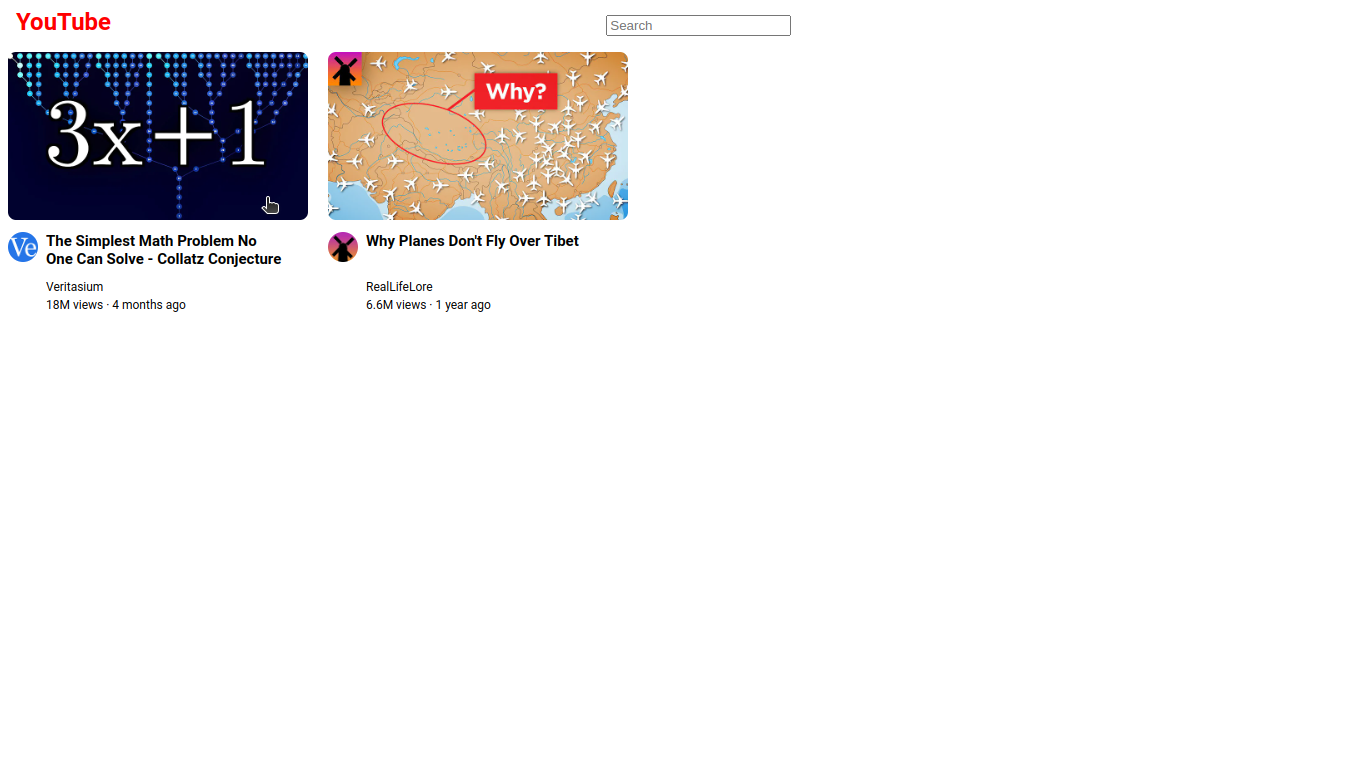
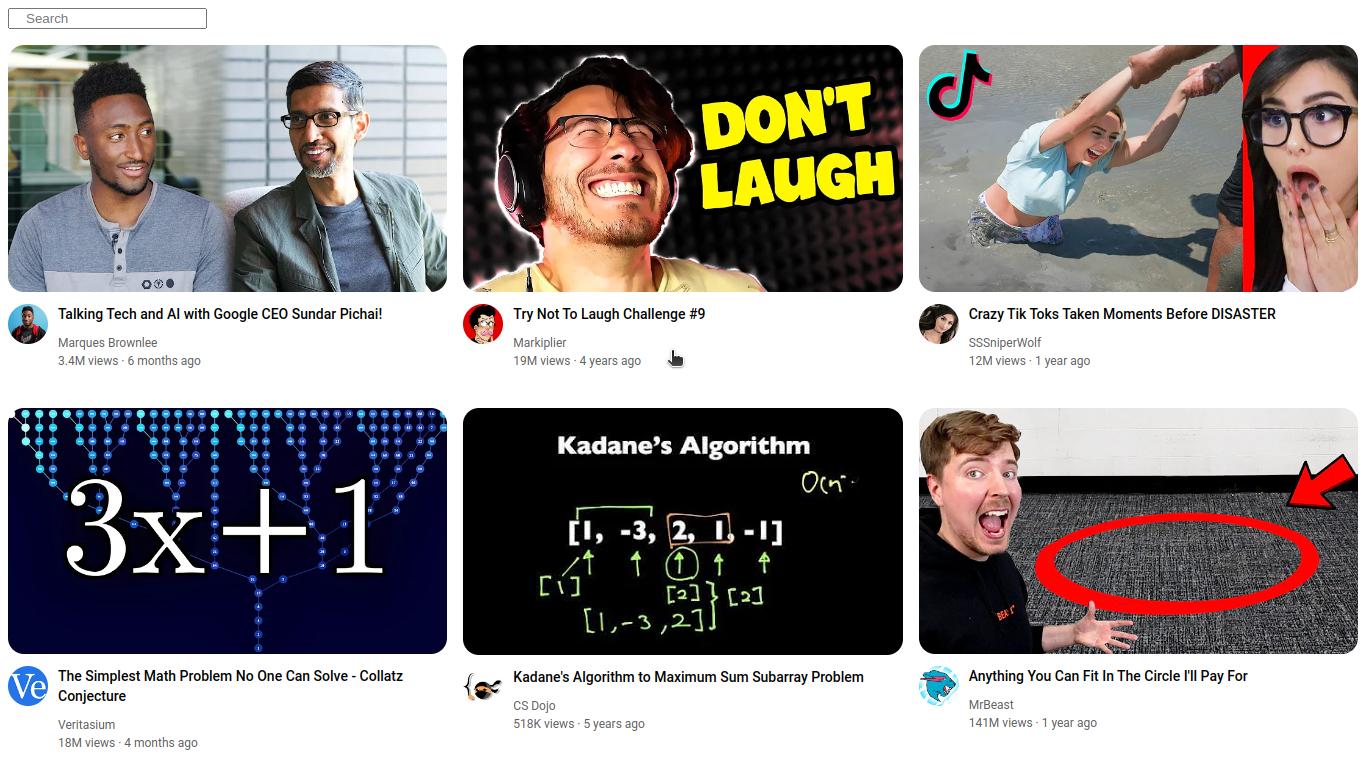
refactor: youtube clone
implement grid display

diff --git a/youtube-clone/index.html b/youtube-clone/index.html
@@ -1,53 +1,163 @@
-<!doctype html>
+<!DOCTYPE html>
 <html>
 <head>
-    <title></title>
+    <title>YouTube (clone)</title>
 
     <link rel="preconnect" href="https://fonts.googleapis.com">
     <link rel="preconnect" href="https://fonts.gstatic.com" crossorigin>
-    <link href="https://fonts.googleapis.com/css2?family=Roboto:wght@400;700&display=swap" rel="stylesheet">
+    <link href="https://fonts.googleapis.com/css2?family=Roboto:wght@400;500;700&display=swap" rel="stylesheet">
     
     <link rel="stylesheet" href="style.css">
 </head>
 <body>
-    <div class="logo-and-searchbox-div">
-        <div class="youtube-logo-div">
-            <p class="youtube-logo-p">YouTube</p>
-        </div>
+    <input class="search-bar" type="text" placeholder="Search">
 
-        <div class="searchbox-div">
-            <input class="searchbox-input" type="text" placeholder="Search">
-        </div>
-    </div>
+    <div class="video-grid">
+        <div class="video-preview">
+            <div class="thumbnail-row">
+                <img class="thumbnail" src="images/thumbnail-1.webp">
+            </div>
 
-    <div class="video-area-div">
-        <img class="thumbnail-img" src="images/thumbnail-4.webp">
-        
-        <div class="desc-div">
-            <img class="channel-img" src="images/channel-4.jpeg">
-            
-            <div class="videoinfo-div">
-                <p class="title">The Simplest Math Problem No One Can Solve - 
-                    Collatz Conjecture</p>
-                <p class="channel-name">Veritasium</p>
-                <p class="stats">18M views &middot; 4 months ago</p>
+            <div class="video-info-grid">
+                <div class="channel-picture">
+                    <img class="profile-picture" src="images/channel-1.jpeg">
+                </div>
+
+                <div class="video-info">
+                    <p class="video-title">
+                        Talking Tech and AI with Google CEO Sundar Pichai!
+                    </p>
+                    <p class="video-author">
+                        Marques Brownlee
+                    </p>
+                    <p class="video-stats">
+                        3.4M views &#183; 6 months ago
+                    </p>
+                </div>
             </div>
         </div>
-    </div>
 
-    <div class="video-area-div">
-        <img class="thumbnail-img" src="images/thumbnail-7.webp">
-        
-        <div class="desc-div">
-            <img class="channel-img" src="images/channel-7.jpeg">
-            
-            <div class="videoinfo-div">
-                <p class="title">Why Planes Don't Fly Over Tibet</p>
-                <p class="channel-name">RealLifeLore</p>
-                <p class="stats">6.6M views &middot; 1 year ago</p>
+        <div class="video-preview">
+            <div class="thumbnail-row">
+                <img class="thumbnail" src="images/thumbnail-2.webp">
+            </div>
+
+            <div class="video-info-grid">
+                <div class="channel-picture">
+                    <img class="profile-picture" src="images/channel-2.jpeg">
+                </div>
+
+                <div class="video-info">
+                    <p class="video-title">
+                        Try Not To Laugh Challenge #9
+                    </p>
+                    <p class="video-author">
+                        Markiplier
+                    </p>
+                    <p class="video-stats">
+                        19M views &#183; 4 years ago
+                    </p>
+                </div>
             </div>
         </div>
-    </div>
 
+        <div class="video-preview">
+            <div class="thumbnail-row">
+                <img class="thumbnail" src="images/thumbnail-3.webp">
+            </div>
+
+            <div class="video-info-grid">
+                <div class="channel-picture">
+                    <img class="profile-picture" src="images/channel-3.jpeg">
+                </div>
+
+                <div class="video-info">
+                    <p class="video-title">
+                        Crazy Tik Toks Taken Moments Before DISASTER
+                    </p>
+                    <p class="video-author">
+                        SSSniperWolf
+                    </p>
+                    <p class="video-stats">
+                        12M views &#183; 1 year ago
+                    </p>
+                </div>
+            </div>
+        </div>
+
+        <div class="video-preview">
+            <div class="thumbnail-row">
+                <img class="thumbnail" src="images/thumbnail-4.webp">
+            </div>
+
+            <div class="video-info-grid">
+                <div class="channel-picture">
+                    <img class="profile-picture" src="images/channel-4.jpeg">
+                </div>
+
+                <div class="video-info">
+                    <p class="video-title">
+                        The Simplest Math Problem No One Can Solve - Collatz Conjecture
+                    </p>
+                    <p class="video-author">
+                        Veritasium
+                    </p>
+                    <p class="video-stats">
+                        18M views &#183; 4 months ago
+                    </p>
+                </div>
+            </div>
+        </div>
+
+        <div class="video-preview">
+            <div class="thumbnail-row">
+                <img class="thumbnail" src="images/thumbnail-5.webp">
+            </div>
+
+            <div class="video-info-grid">
+                <div class="channel-picture">
+                    <img class="profile-picture" src="images/channel-5.jpeg">
+                </div>
+
+                <div class="video-info">
+                    <p class="video-title">
+                        Kadane's Algorithm to Maximum Sum Subarray Problem
+                    </p>
+                    <p class="video-author">
+                        CS Dojo
+                    </p>
+                    <p class="video-stats">
+                        518K views &#183; 5 years ago
+                    </p>
+                </div>
+            </div>
+        </div>
+
+        <div class="video-preview">
+            <div class="thumbnail-row">
+                <img class="thumbnail" src="images/thumbnail-6.webp">
+            </div>
+
+            <div class="video-info-grid">
+                <div class="channel-picture">
+                    <img class="profile-picture" src="images/channel-6.jpeg">
+                </div>
+
+                <div class="video-info">
+                    <p class="video-title">
+                        Anything You Can Fit In The Circle I'll Pay For
+                    </p>
+                    <p class="video-author">
+                        MrBeast
+                    </p>
+                    <p class="video-stats">
+                        141M views &#183; 1 year ago
+                    </p>
+                </div>
+            </div>
+        </div>
+        
+    </div>
+    
 </body>
 </html>

diff --git a/youtube-clone/style.css b/youtube-clone/style.css
@@ -1,67 +1,55 @@
-.logo-and-searchbox-div {
+.search-bar {
+    padding-left: 16px;
     margin-bottom: 16px;
 }
 
-.youtube-logo-div, .searchbox-div {
-    display: inline-block;
-}
-
-.youtube-logo-div {
-    width: 10%;
-    margin-left: 8px;
-}
-
-.youtube-logo-p {
-    font-size: 24px;
-    font-weight: bold;
-    color: red;
-}
-
-.searchbox-div {
-    width: 85%;
-    text-align: center;
-    margin-left: -30px;
-}
-
 p {
-    margin: 0;
     font-family: Roboto, Arial;
-    font-size: 12px;
+    margin-top: 0;
+    margin-bottom: 0;
 }
 
-.video-area-div {
-    display: inline-block;
-    vertical-align: top;
-    margin-right: 16px;
-    width: 300px;
+.video-grid {
+    display: grid;
+    grid-template-columns: 1fr 1fr 1fr;
+    column-gap: 16px;
+    row-gap: 40px;
+}
+
+.video-preview {
     cursor: pointer;
 }
 
-.thumbnail-img {
+
+.thumbnail {
     width: 100%;
-    margin-bottom: 8px;
-    border-radius: 8px;
-}
-
-.channel-img {
-    width: 10%;
     border-radius: 16px;
-    margin-right: 4px;
-    vertical-align: top;
 }
 
-.videoinfo-div {
-    width: 80%;
-    display: inline-block; 
+.video-info-grid {
+    display: grid;
+    grid-template-columns: 50px 1fr;
+    margin-top: 8px;
 }
 
-.title {
-    height: 40px;
-    font-size: 15px;
-    font-weight: bold;
-    margin-bottom: 8px;
+.profile-picture {
+    width: 40px;
+    border-radius: 50px;
 }
 
-.stats {
-    margin-top: 4px;
+.video-title {
+    margin-top: 0;
+    font-size: 14px;
+    font-weight: 500;
+    line-height: 20px;
+    margin-bottom: 12px;
+}
+
+.video-author, .video-stats {
+    font-size: 12px;
+    color: rgb(96, 96, 96);
+}
+
+.video-author {
+    margin-bottom: 4px;
 }

diff --git a/youtube-clone/README.md b/youtube-clone/README.md
@@ -1,4 +1,9 @@
 YouTube clone.
 
 # Screenshot
-![my result](images/result.png)
+## Normal Window
+![result](images/result.png)
+
+## Half Window
+![half window](images/half-window-result.png)
+
